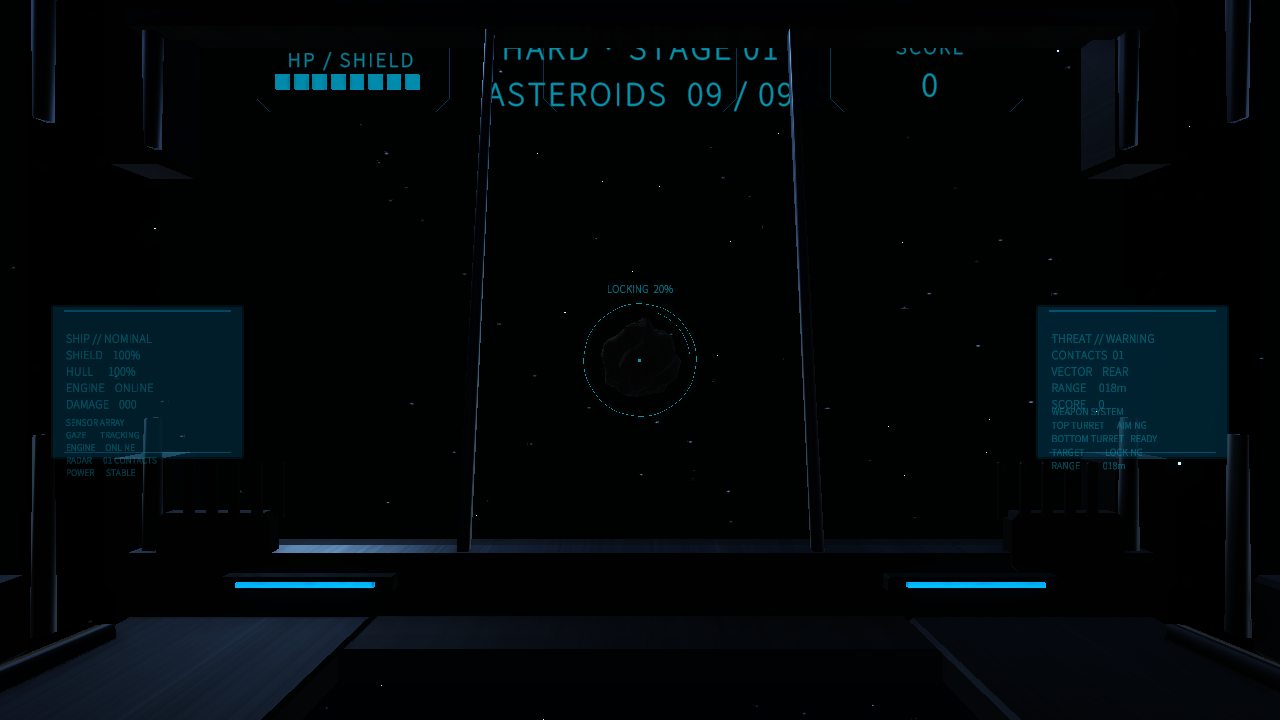
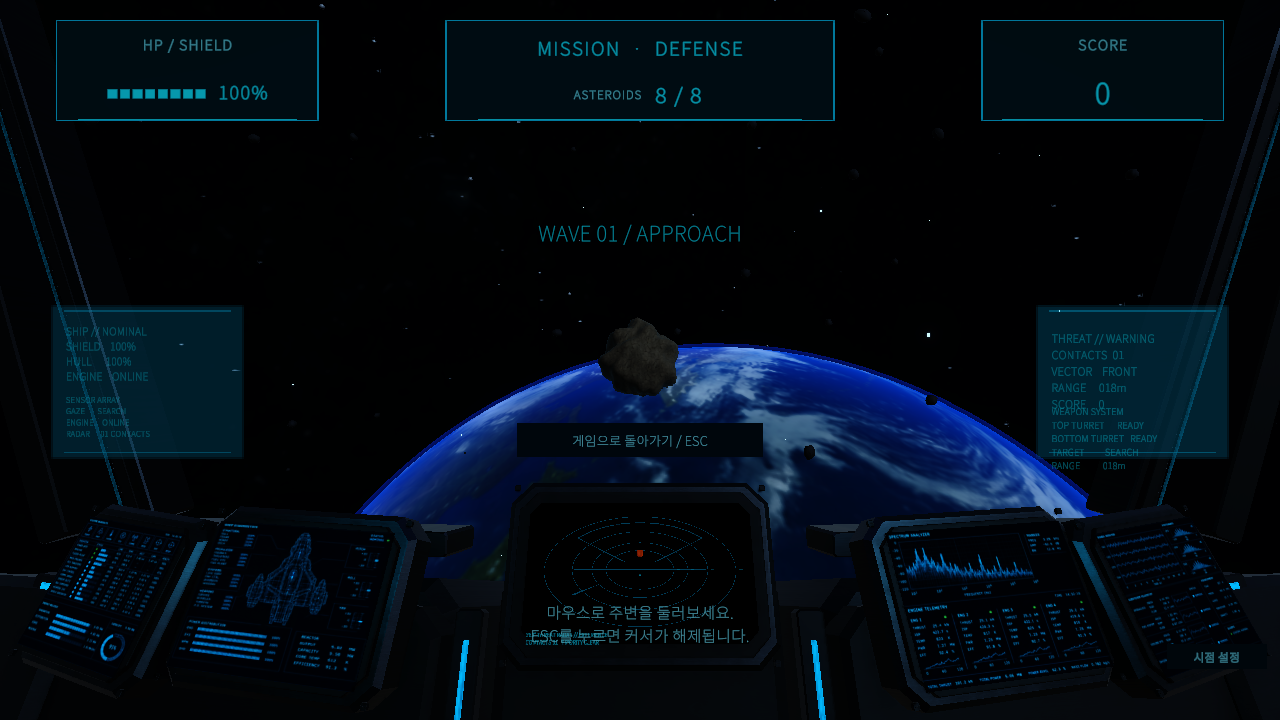
build: pin clean Windows QA identity

diff --git a/MeteorDefenseVR/Assets/_Project/Core/Editor/PcTestSetup.cs b/MeteorDefenseVR/Assets/_Project/Core/Editor/PcTestSetup.cs
@@ -1,5 +1,9 @@
 using System.IO;
 using System.Linq;
+using System;
+using Process = System.Diagnostics.Process;
+using ProcessStartInfo = System.Diagnostics.ProcessStartInfo;
+using Object = UnityEngine.Object;
 using MeteorDefenseVR.EyeTracking;
 using MeteorDefenseVR.PcInput;
 using TMPro;
@@ -132,30 +136,90 @@ namespace MeteorDefenseVR.Editor
         private static void BuildWindowsReady(bool regenerateScene)
         {
             if (regenerateScene) ProjectSceneSetup.EnsureProjectScenes();
+            AssetDatabase.SaveAssets();
+            GitBuildIdentity identity = GitBuildIdentity.Read();
+            if (!identity.worktreeClean)
+                throw new InvalidOperationException("Release/QA build refused: Git worktree is dirty. Commit or remove all non-ignored changes first.");
             PlayerSettings.defaultScreenWidth = 1280;
             PlayerSettings.defaultScreenHeight = 720;
             PlayerSettings.fullScreenMode = FullScreenMode.Windowed;
             PlayerSettings.resizableWindow = true;
-            Directory.CreateDirectory("Builds/Windows");
-            string configPath = "Builds/Windows/" + ExperienceConfiguration.FileName;
+            string buildVersion = PlayerSettings.bundleVersion;
+            string output = $"Builds/Windows/QA_{DateTime.Now:yyyyMMdd}_{buildVersion}";
+            if (Directory.Exists(output))
+                throw new IOException("Versioned build output already exists: " + Path.GetFullPath(output));
+            Directory.CreateDirectory(output);
+            string configPath = output + "/" + ExperienceConfiguration.FileName;
             if (!File.Exists(configPath)) File.WriteAllText(configPath, JsonUtility.ToJson(new ExperienceSettings(), true));
             BuildReport report = BuildPipeline.BuildPlayer(new BuildPlayerOptions
             {
                 scenes = new[] { "Assets/_Project/Scenes/Bootstrap.unity", "Assets/_Project/Scenes/MeteorDefense.unity" },
-                locationPathName = "Builds/Windows/MeteorDefenseVR.exe",
+                locationPathName = output + "/MeteorDefenseVR.exe",
                 target = BuildTarget.StandaloneWindows64,
                 options = BuildOptions.None
             });
             if (report.summary.result != BuildResult.Succeeded) throw new System.Exception("Windows build failed: " + report.summary.totalErrors);
-            File.Copy("THIRD_PARTY_PC_INPUT.md", "Builds/Windows/THIRD_PARTY_PC_INPUT.md", true);
-            File.Copy("Assets/_Project/PcInput/Fonts/OFL.txt", "Builds/Windows/NotoSansKR-OFL.txt", true);
-            Directory.CreateDirectory("Builds/Windows/ThirdPartyNotices");
+            identity.buildVersion = buildVersion;
+            identity.buildTimeKST = DateTimeOffset.Now.ToString("yyyy-MM-ddTHH:mm:sszzz");
+            identity.unityVersion = Application.unityVersion;
+            identity.scene = "Assets/_Project/Scenes/MeteorDefense.unity";
+            identity.developmentBuild = false;
+            File.WriteAllText(output + "/BUILD_IDENTITY.json", JsonUtility.ToJson(identity, true));
+            File.Copy("THIRD_PARTY_PC_INPUT.md", output + "/THIRD_PARTY_PC_INPUT.md", true);
+            File.Copy("Assets/_Project/PcInput/Fonts/OFL.txt", output + "/NotoSansKR-OFL.txt", true);
+            Directory.CreateDirectory(output + "/ThirdPartyNotices");
             foreach (string notice in Directory.GetFiles("ThirdPartyNotices"))
-                File.Copy(notice, Path.Combine("Builds/Windows/ThirdPartyNotices", Path.GetFileName(notice)), true);
+                File.Copy(notice, Path.Combine(output, "ThirdPartyNotices", Path.GetFileName(notice)), true);
             foreach (string launcher in Directory.GetFiles("Tools/Launchers", "*.cmd"))
-                File.Copy(launcher, Path.Combine("Builds/Windows", Path.GetFileName(launcher)), true);
-            File.Copy("Docs/FinalQA/OPERATOR_GUIDE.md", "Builds/Windows/OPERATOR_GUIDE.md", true);
-            Debug.Log("[PCBuild] Windows executable ready: " + Path.GetFullPath("Builds/Windows/MeteorDefenseVR.exe"));
+                File.Copy(launcher, Path.Combine(output, Path.GetFileName(launcher)), true);
+            File.Copy("Docs/FinalQA/OPERATOR_GUIDE.md", output + "/OPERATOR_GUIDE.md", true);
+            Debug.Log("[PCBuild] Windows executable ready: " + Path.GetFullPath(output + "/MeteorDefenseVR.exe"));
+        }
+
+        [Serializable]
+        private sealed class GitBuildIdentity
+        {
+            public string buildVersion;
+            public string gitBranch;
+            public string gitCommit;
+            public string gitCommitShort;
+            public string buildTimeKST;
+            public string unityVersion;
+            public string scene;
+            public bool developmentBuild;
+            public bool worktreeClean;
+
+            public static GitBuildIdentity Read()
+            {
+                string branch = Git("branch --show-current");
+                string commit = Git("rev-parse HEAD");
+                string status = Git("status --porcelain=v1 --untracked-files=normal");
+                return new GitBuildIdentity
+                {
+                    gitBranch = branch,
+                    gitCommit = commit,
+                    gitCommitShort = commit.Length >= 7 ? commit.Substring(0, 7) : commit,
+                    worktreeClean = string.IsNullOrWhiteSpace(status)
+                };
+            }
+
+            private static string Git(string arguments)
+            {
+                var start = new ProcessStartInfo("git", arguments)
+                {
+                    WorkingDirectory = Path.GetFullPath(".."),
+                    UseShellExecute = false,
+                    RedirectStandardOutput = true,
+                    RedirectStandardError = true,
+                    CreateNoWindow = true
+                };
+                using Process process = Process.Start(start);
+                string output = process.StandardOutput.ReadToEnd().Trim();
+                string error = process.StandardError.ReadToEnd().Trim();
+                process.WaitForExit();
+                if (process.ExitCode != 0) throw new InvalidOperationException("Git identity failed: " + error);
+                return output;
+            }
         }
     }
 }

diff --git a/MeteorDefenseVR/Assets/_Project/PcInput/PcTestOverlay.cs b/MeteorDefenseVR/Assets/_Project/PcInput/PcTestOverlay.cs
@@ -4,6 +4,7 @@ using UnityEngine;
 using UnityEngine.EventSystems;
 using UnityEngine.InputSystem.UI;
 using UnityEngine.InputSystem;
+using Object = UnityEngine.Object;
 
 namespace MeteorDefenseVR.PcInput
 {
@@ -28,6 +29,7 @@ namespace MeteorDefenseVR.PcInput
         private GameObject developerMenuButton;
         private TextMeshProUGUI developerMenuLabel;
         private TextMeshProUGUI compactStatus;
+        private TextMeshProUGUI buildIdentity;
         private TextMeshProUGUI fallbackNotice;
         private GameObject inputButton, fallbackButton, resetButton, exitButton, keyLegend;
         private GameObject previewButton, cursorButton, faceButton;
@@ -80,6 +82,10 @@ namespace MeteorDefenseVR.PcInput
             Label(panel.transform, "Privacy", "영상 저장·업로드 없음 / 근사 시선 테스트", new Vector2(16, -413), new Vector2(328, 24), 15);
             debug = Label(canvasObject.transform, "DebugStatus", "", new Vector2(25, -480), new Vector2(580, 130), 17);
             compactStatus = Label(canvasObject.transform, "CompactInputStatus", "", new Vector2(24, -20), new Vector2(480, 58), 18);
+            buildIdentity = Label(canvasObject.transform, "BuildIdentity", LoadBuildIdentity(), Vector2.zero, new Vector2(260, 42), 13);
+            buildIdentity.alignment = TextAlignmentOptions.BottomLeft;
+            buildIdentity.color = new Color(.48f, .72f, .78f, .72f);
+            DockBottom(buildIdentity.gameObject, false, 20, 8);
             fallbackNotice = Label(canvasObject.transform, "InputHelp", "", Vector2.zero, new Vector2(680, 34), 22);
             var helpRect = fallbackNotice.rectTransform;
             helpRect.anchorMin = helpRect.anchorMax = new Vector2(.5f, 0f); helpRect.pivot = new Vector2(.5f, 0f);
@@ -188,6 +194,7 @@ namespace MeteorDefenseVR.PcInput
             panel.SetActive(!settingsOpen && !calibrating && (operatorUi || development) && (menuOpen || paused));
             router.UiModalOpen = panel.activeSelf || lookSettingsPanel.activeSelf;
             compactStatus.gameObject.SetActive(development && !panel.activeSelf && !calibrating);
+            buildIdentity.gameObject.SetActive((development || operatorUi) && !calibrating);
             developerMenuButton.SetActive(development && isBoot && !calibrating);
             developerMenuLabel.text = menuOpen ? "개발자 UI 닫기" : "개발자 테스트 UI";
             inputButton.SetActive((operatorUi || development) && !(development && isBoot));
@@ -241,6 +248,32 @@ namespace MeteorDefenseVR.PcInput
             menuOpen = !menuOpen;
         }
 
+        private static string LoadBuildIdentity()
+        {
+            if (Application.isEditor) return $"BUILD {Application.version}\nEDITOR";
+            try
+            {
+                string path = Path.GetFullPath(Path.Combine(Application.dataPath, "..", "BUILD_IDENTITY.json"));
+                if (!File.Exists(path)) return $"BUILD {Application.version}\nUNKNOWN";
+                var identity = JsonUtility.FromJson<RuntimeBuildIdentity>(File.ReadAllText(path));
+                string version = string.IsNullOrWhiteSpace(identity.buildVersion) ? Application.version : identity.buildVersion;
+                string commit = string.IsNullOrWhiteSpace(identity.gitCommitShort) ? "UNKNOWN" : identity.gitCommitShort;
+                return $"BUILD {version}\n{commit}";
+            }
+            catch (Exception exception)
+            {
+                Debug.LogWarning("[BuildIdentity] Could not read BUILD_IDENTITY.json: " + exception.GetType().Name);
+                return $"BUILD {Application.version}\nUNKNOWN";
+            }
+        }
+
+        [Serializable]
+        private sealed class RuntimeBuildIdentity
+        {
+            public string buildVersion;
+            public string gitCommitShort;
+        }
+
         private void OnDisable() { menuOpen = settingsOpen = wasBoot = wasPaused = false; if (router != null) router.UiModalOpen = false; }
         private void AddModeButton(string text, PcGazeMode mode, float y) => Button(panel.transform, mode.ToString(), text, new Vector2(16, -y), new Vector2(328, 38), () =>
         {
@@ -286,3 +319,5 @@ namespace MeteorDefenseVR.PcInput
         private static void Background(GameObject target, Color color, bool raycast = true) { var image = target.AddComponent<UnityEngine.UI.Image>(); image.color = color; image.raycastTarget = raycast; }
     }
 }
+using System;
+using System.IO;

diff --git a/MeteorDefenseVR/Assets/_Project/Core/Editor/TutorialSafeZoneSetup.cs b/MeteorDefenseVR/Assets/_Project/Core/Editor/TutorialSafeZoneSetup.cs
@@ -8,6 +8,21 @@ namespace MeteorDefenseVR.Editor
 {
     public static class TutorialSafeZoneSetup
     {
+        private const string ScenePath="Assets/_Project/Scenes/MeteorDefense.unity";
+        private const string FontPath="Assets/_Project/PcInput/Fonts/PcTestKorean.asset";
+        private const string UiOverlayMaterialPath="Assets/_Project/UI/Materials/GameplayHudAlwaysOnTop.mat";
+        private const string FontOverlayMaterialPath="Assets/_Project/UI/Materials/GameplayHudFontAlwaysOnTop.mat";
+
+        [MenuItem("Meteor Defense/Apply Tutorial HUD Overlay")]
+        public static void ApplyAndBake()
+        {
+            var scene=UnityEditor.SceneManagement.EditorSceneManager.OpenScene(ScenePath,UnityEditor.SceneManagement.OpenSceneMode.Single);
+            Ensure(Camera.main,AssetDatabase.LoadAssetAtPath<TMP_FontAsset>(FontPath));
+            UnityEditor.SceneManagement.EditorSceneManager.MarkSceneDirty(scene);
+            UnityEditor.SceneManagement.EditorSceneManager.SaveScene(scene);
+            AssetDatabase.SaveAssets();
+        }
+
         public static void Ensure(Camera camera,TMP_FontAsset font)
         {
             if(camera==null||font==null)return;
@@ -19,7 +34,7 @@ namespace MeteorDefenseVR.Editor
             var existingView=Object.FindAnyObjectByType<TutorialSafeZoneView>(FindObjectsInactive.Include);
             RectTransform root=existingView!=null?(RectTransform)existingView.transform:Rect(null,"TutorialSafeZoneCanvas");
             root.SetParent(null,false);root.gameObject.layer=layer;
-            Canvas canvas=Get<Canvas>(root.gameObject);canvas.renderMode=RenderMode.ScreenSpaceCamera;canvas.worldCamera=camera;canvas.planeDistance=1.15f;canvas.overrideSorting=true;canvas.sortingOrder=140;
+            Canvas canvas=Get<Canvas>(root.gameObject);canvas.renderMode=RenderMode.ScreenSpaceCamera;canvas.worldCamera=camera;canvas.planeDistance=.45f;canvas.overrideSorting=true;canvas.sortingOrder=230;
             var scaler=Get<UnityEngine.UI.CanvasScaler>(root.gameObject);scaler.uiScaleMode=UnityEngine.UI.CanvasScaler.ScaleMode.ScaleWithScreenSize;
             scaler.referenceResolution=new Vector2(1920,1080);scaler.screenMatchMode=UnityEngine.UI.CanvasScaler.ScreenMatchMode.MatchWidthOrHeight;scaler.matchWidthOrHeight=.5f;
             Get<UnityEngine.UI.GraphicRaycaster>(root.gameObject).enabled=false;
@@ -27,11 +42,14 @@ namespace MeteorDefenseVR.Editor
 
             RectTransform panel=Rect(root,"MainTutorialPanel");panel.anchorMin=new Vector2(.19f,.57f);panel.anchorMax=new Vector2(.81f,.80f);panel.pivot=Vector2.one*.5f;
             panel.offsetMin=panel.offsetMax=Vector2.zero;panel.gameObject.layer=layer;
-            var background=Get<UnityEngine.UI.Image>(panel.gameObject);background.color=new Color(.004f,.022f,.034f,.94f);background.raycastTarget=false;
+            Material imageMaterial=AssetDatabase.LoadAssetAtPath<Material>(UiOverlayMaterialPath);
+            Material fontMaterial=AssetDatabase.LoadAssetAtPath<Material>(FontOverlayMaterialPath);
+            if(imageMaterial==null||fontMaterial==null)throw new System.InvalidOperationException("Gameplay HUD always-on-top materials are required");
+            var background=Get<UnityEngine.UI.Image>(panel.gameObject);background.color=new Color(.004f,.022f,.034f,.94f);background.material=imageMaterial;background.raycastTarget=false;
             var outline=Get<UnityEngine.UI.Outline>(panel.gameObject);outline.effectColor=new Color(.04f,.9f,.96f,.82f);outline.effectDistance=new Vector2(2,-2);outline.useGraphicAlpha=true;
 
             TextMeshProUGUI instruction=Text(panel,"TutorialTitle",font,layer);Anchor(instruction.rectTransform,new Vector2(.04f,.08f),new Vector2(.96f,.94f));
-            instruction.fontSize=48;instruction.enableAutoSizing=false;instruction.fontStyle=FontStyles.Normal;instruction.characterSpacing=0;
+            instruction.fontSharedMaterial=fontMaterial;instruction.fontSize=48;instruction.enableAutoSizing=false;instruction.fontStyle=FontStyles.Normal;instruction.characterSpacing=0;
             instruction.color=new Color(.78f,.98f,1f,1);instruction.alignment=TextAlignmentOptions.Center;
             instruction.textWrappingMode=TextWrappingModes.Normal;instruction.overflowMode=TextOverflowModes.Truncate;instruction.richText=true;
             instruction.canvasRenderer.cullTransparentMesh=false;

diff --git a/MeteorDefenseVR/Assets/_Project/Core/Tests/TutorialSafeZoneTests.cs b/MeteorDefenseVR/Assets/_Project/Core/Tests/TutorialSafeZoneTests.cs
@@ -23,13 +23,16 @@ namespace MeteorDefenseVR.Tests
             var view=Object.FindAnyObjectByType<TutorialSafeZoneView>(FindObjectsInactive.Include);var camera=Camera.main;
             Assert.That(view,Is.Not.Null);Assert.That(view.HudCanvas.renderMode,Is.EqualTo(RenderMode.ScreenSpaceCamera));
             Assert.That(view.HudCanvas.transform.parent,Is.Null,"Desktop Screen Space HUD must not inherit rapid camera rotations");
-            Assert.That(view.HudCanvas.worldCamera,Is.SameAs(camera));Assert.That(view.HudCanvas.planeDistance,Is.InRange(.9f,1.3f));
-            Assert.That(view.HudCanvas.sortingOrder,Is.GreaterThanOrEqualTo(120));
+            Assert.That(view.HudCanvas.worldCamera,Is.SameAs(camera));Assert.That(view.HudCanvas.planeDistance,Is.InRange(.4f,.5f));
+            Assert.That(view.HudCanvas.sortingOrder,Is.GreaterThanOrEqualTo(220));
             RectTransform panel=view.SafePanel;Assert.That(panel.anchorMin.x,Is.EqualTo(.19f).Within(.001));Assert.That(panel.anchorMax.x,Is.EqualTo(.81f).Within(.001));
             Assert.That(panel.anchorMin.y,Is.GreaterThanOrEqualTo(.45f));Assert.That(panel.anchorMax.y,Is.LessThanOrEqualTo(.80f));
             Assert.That(panel.anchorMin.y,Is.GreaterThan(.55f),"Main tutorial copy must clear the center reticle/meteor zone");
             int hudLayer=LayerMask.NameToLayer("Player HUD");Assert.That(view.gameObject.layer,Is.EqualTo(hudLayer));Assert.That(camera.cullingMask&(1<<hudLayer),Is.Not.Zero);
             Assert.That(view.InstructionText.font,Is.Not.Null);Assert.That(view.InstructionText.font.name,Does.Contain("PcTestKorean"));
+            Assert.That(view.SafePanel.GetComponent<UnityEngine.UI.Image>().material.name,Is.EqualTo("GameplayHudAlwaysOnTop"));
+            Assert.That(view.InstructionText.fontSharedMaterial.name,Is.EqualTo("GameplayHudFontAlwaysOnTop"));
+            Assert.That(view.InstructionText.fontSharedMaterial.renderQueue,Is.GreaterThanOrEqualTo(4000));
             Assert.That(view.InstructionText.canvasRenderer.cullTransparentMesh,Is.False);
             var legacy=Object.FindAnyObjectByType<TutorialStatusView>(FindObjectsInactive.Include).GetComponent<MeshRenderer>();Assert.That(legacy.enabled,Is.False);
             view.ApplyCanvasMode(true);Assert.That(view.HudCanvas.renderMode,Is.EqualTo(RenderMode.WorldSpace));

diff --git a/MeteorDefenseVR/Assets/_Project/Core/Editor/RearPanoramaQaRunner.cs b/MeteorDefenseVR/Assets/_Project/Core/Editor/RearPanoramaQaRunner.cs
@@ -94,9 +94,9 @@ namespace MeteorDefenseVR.Editor
                 if(state=="boot")
                 {
                     var router=Object.FindAnyObjectByType<GazeInputRouter>();router.SetMode(PcGazeMode.WindowsVRSimulation);
-                    Object.FindAnyObjectByType<DifficultyManager>().Select(DifficultyLevel.Hard);
-                    GameFlowManager.Instance.StartLaunch();
-                    SessionState.SetFloat(DeadlineKey,(float)EditorApplication.timeSinceStartup+24);SessionState.SetString(StateKey,"launch");return;
+                    Object.FindAnyObjectByType<DifficultyManager>().Select(DifficultyLevel.Extreme);
+                    GameFlowManager.Instance.StartMainGame();
+                    SessionState.SetFloat(DeadlineKey,(float)EditorApplication.timeSinceStartup+8);SessionState.SetString(StateKey,"launch");return;
                 }
                 if(state=="launch")
                 {
@@ -141,7 +141,7 @@ namespace MeteorDefenseVR.Editor
             Object.FindAnyObjectByType<MeteorSpawner>().EndScenario();probe?.Dispose();probe=null;
             Directory.CreateDirectory("Docs/RearPanoramaQA");
             File.WriteAllLines("Docs/RearPanoramaQA/visibility-validation.txt",new[]{
-                "Windows VR Simulation: HARD / 8 directional target captures",
+                "Windows VR Simulation: EXTREME / 8 directional target captures",
                 "Front, Left, RearLeft, Rear, RearRight, Right, Above, Below: viewport center validation passed",
                 "Target acquisition criterion: spawned meteor remained inside x=0.40..0.60, y=0.38..0.62 after camera rotation",
                 "Rear structure criterion: side bulkheads <= 0.55m, rear/side glass >= 1.95m, ceiling spine <= 0.25m",

diff --git a/MeteorDefenseVR/Assets/_Project/PcInput/TutorialSafeZoneView.cs b/MeteorDefenseVR/Assets/_Project/PcInput/TutorialSafeZoneView.cs
@@ -54,7 +54,7 @@ namespace MeteorDefenseVR.PcInput
         {
             if(canvas==null||playerCamera==null||worldMode==stereo)return;worldMode=stereo;
             RectTransform root=(RectTransform)canvas.transform;
-            canvas.worldCamera=playerCamera;canvas.overrideSorting=true;canvas.sortingOrder=140;
+            canvas.worldCamera=playerCamera;canvas.overrideSorting=true;canvas.sortingOrder=230;
             if(stereo)
             {
                 root.SetParent(playerCamera.transform,false);
@@ -68,7 +68,7 @@ namespace MeteorDefenseVR.PcInput
                 // geometry for one frame. Keep desktop HUD roots transform-independent.
                 root.SetParent(null,false);root.anchorMin=Vector2.zero;root.anchorMax=Vector2.one;
                 root.offsetMin=root.offsetMax=Vector2.zero;
-                canvas.renderMode=RenderMode.ScreenSpaceCamera;canvas.planeDistance=1.15f;
+                canvas.renderMode=RenderMode.ScreenSpaceCamera;canvas.planeDistance=.45f;
                 root.localPosition=Vector3.zero;root.localRotation=Quaternion.identity;root.localScale=Vector3.one;
             }
             RefreshTextGeometry();

diff --git a/MeteorDefenseVR/Assets/_Project/Core/Tests/BuildIdentityTests.cs b/MeteorDefenseVR/Assets/_Project/Core/Tests/BuildIdentityTests.cs
@@ -1,0 +1,27 @@
+using System.IO;
+using NUnit.Framework;
+
+namespace MeteorDefenseVR.Tests
+{
+    public sealed class BuildIdentityTests
+    {
+        [Test]
+        public void BuildPipelineRecordsRequiredIdentityFieldsAndRejectsDirtyTrees()
+        {
+            string source = File.ReadAllText("Assets/_Project/Core/Editor/PcTestSetup.cs");
+            foreach (string field in new[] { "buildVersion", "gitBranch", "gitCommit", "gitCommitShort", "buildTimeKST", "unityVersion", "scene", "developmentBuild", "worktreeClean" })
+                StringAssert.Contains(field, source);
+            StringAssert.Contains("Git worktree is dirty", source);
+            StringAssert.Contains("BUILD_IDENTITY.json", source);
+        }
+
+        [Test]
+        public void RuntimeOverlayShowsIdentityOnlyOutsidePublicMode()
+        {
+            string source = File.ReadAllText("Assets/_Project/PcInput/PcTestOverlay.cs");
+            StringAssert.Contains("development || operatorUi", source);
+            StringAssert.Contains("BUILD ", source);
+            StringAssert.Contains("BUILD_IDENTITY.json", source);
+        }
+    }
+}

diff --git a/MeteorDefenseVR/Assets/_Project/Core/Tests/RearPanoramaCockpitTests.cs b/MeteorDefenseVR/Assets/_Project/Core/Tests/RearPanoramaCockpitTests.cs
@@ -68,10 +68,10 @@ namespace MeteorDefenseVR.Tests
             var router = Object.FindAnyObjectByType<GazeInputRouter>();
             var simulation = router.Simulation;
             router.SetMode(PcGazeMode.WindowsVRSimulation);
-            Object.FindAnyObjectByType<DifficultyManager>().Select(DifficultyLevel.Hard);
+            Object.FindAnyObjectByType<DifficultyManager>().Select(DifficultyLevel.Extreme);
             var flow = GameFlowManager.Instance;
-            flow.StartLaunch();
-            float deadline = Time.realtimeSinceStartup + 20f;
+            flow.StartMainGame();
+            float deadline = Time.realtimeSinceStartup + 8f;
             while (flow.CurrentState != GameState.Playing && Time.realtimeSinceStartup < deadline) yield return null;
             Assert.That(flow.CurrentState, Is.EqualTo(GameState.Playing));
 
